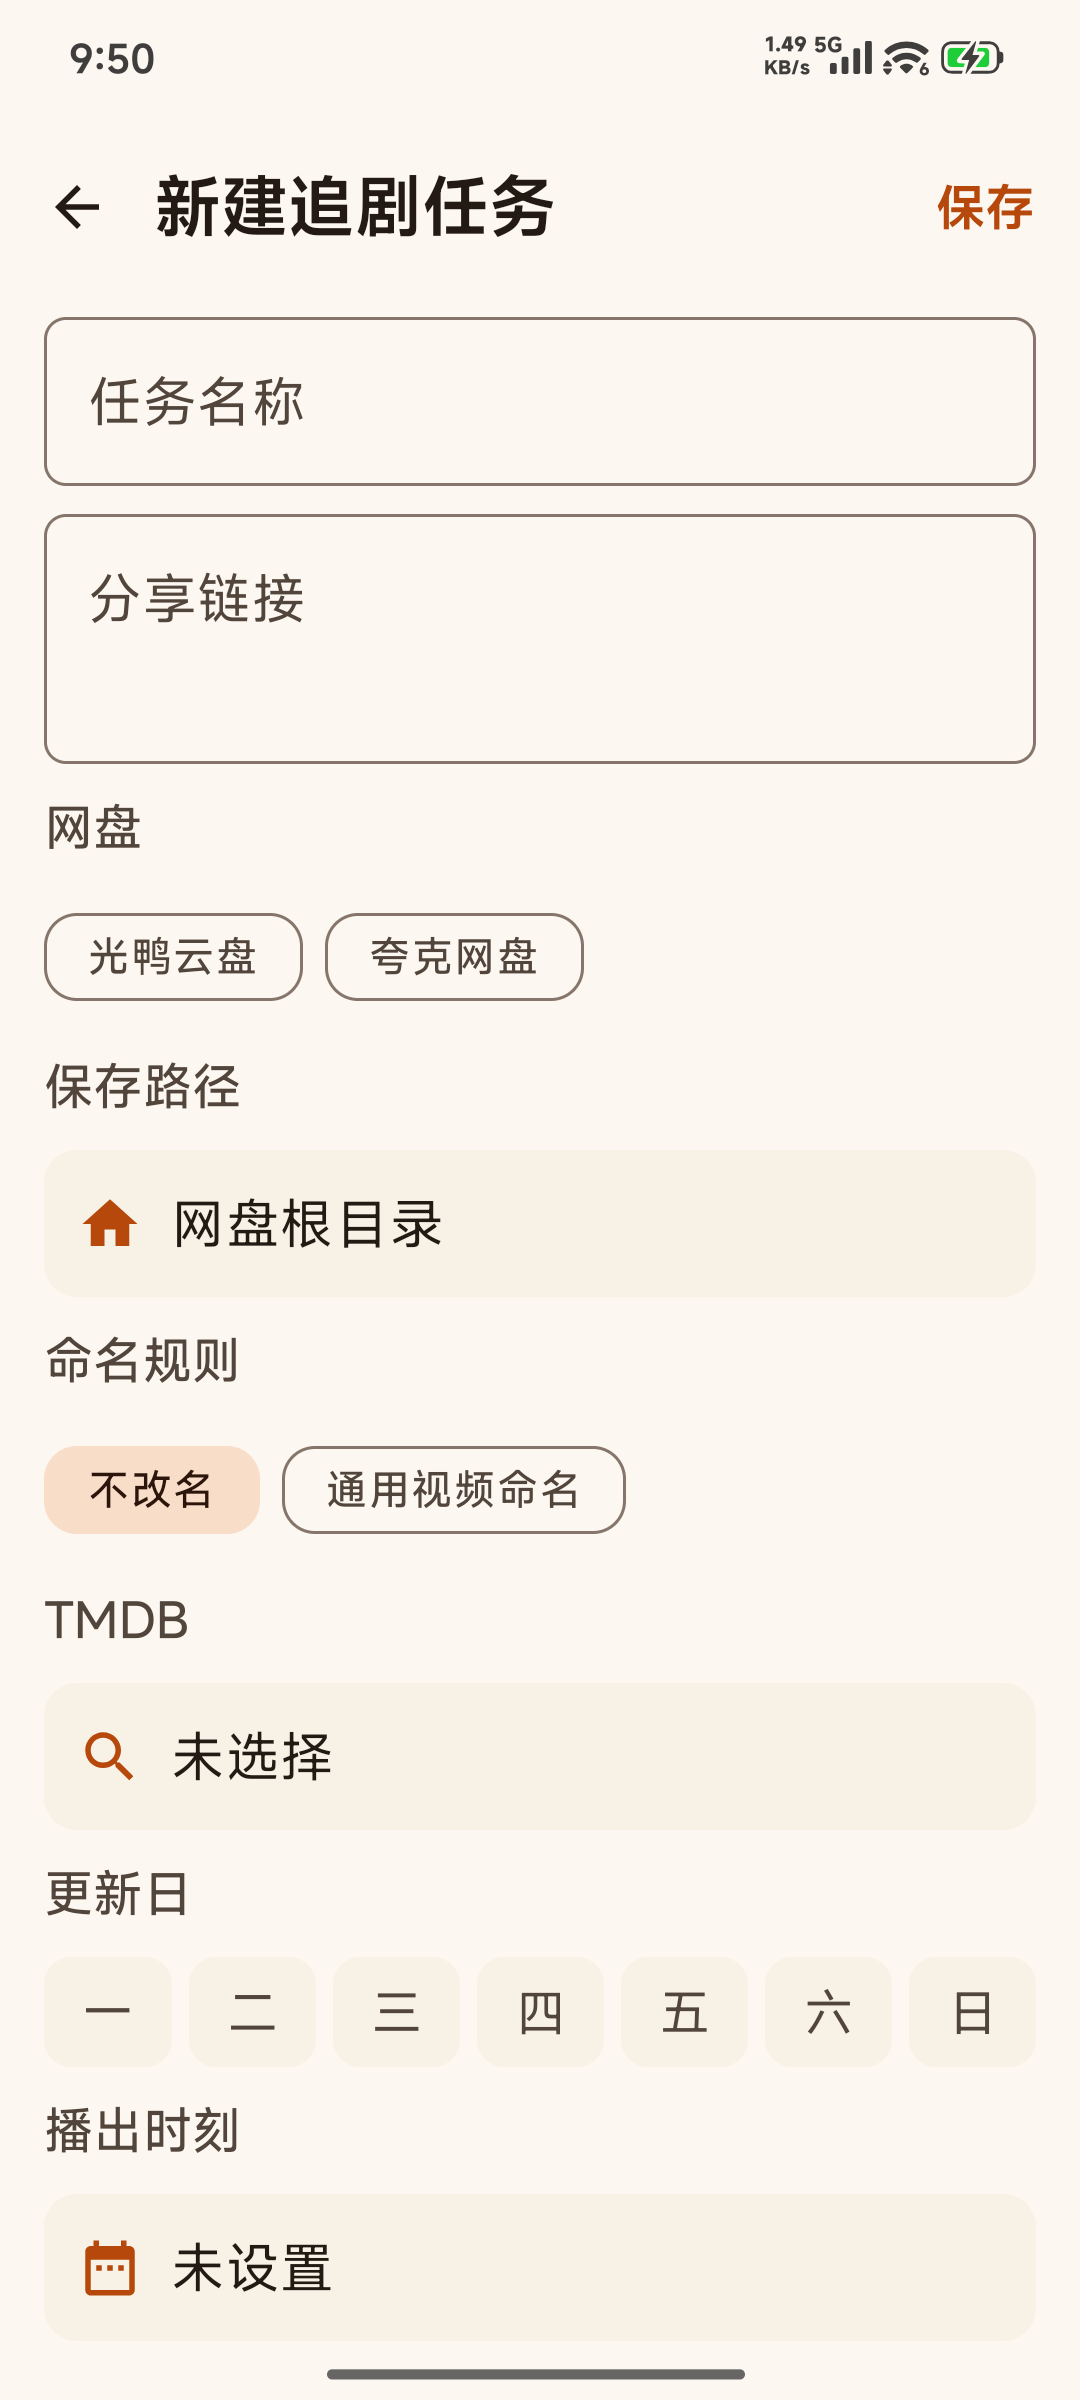
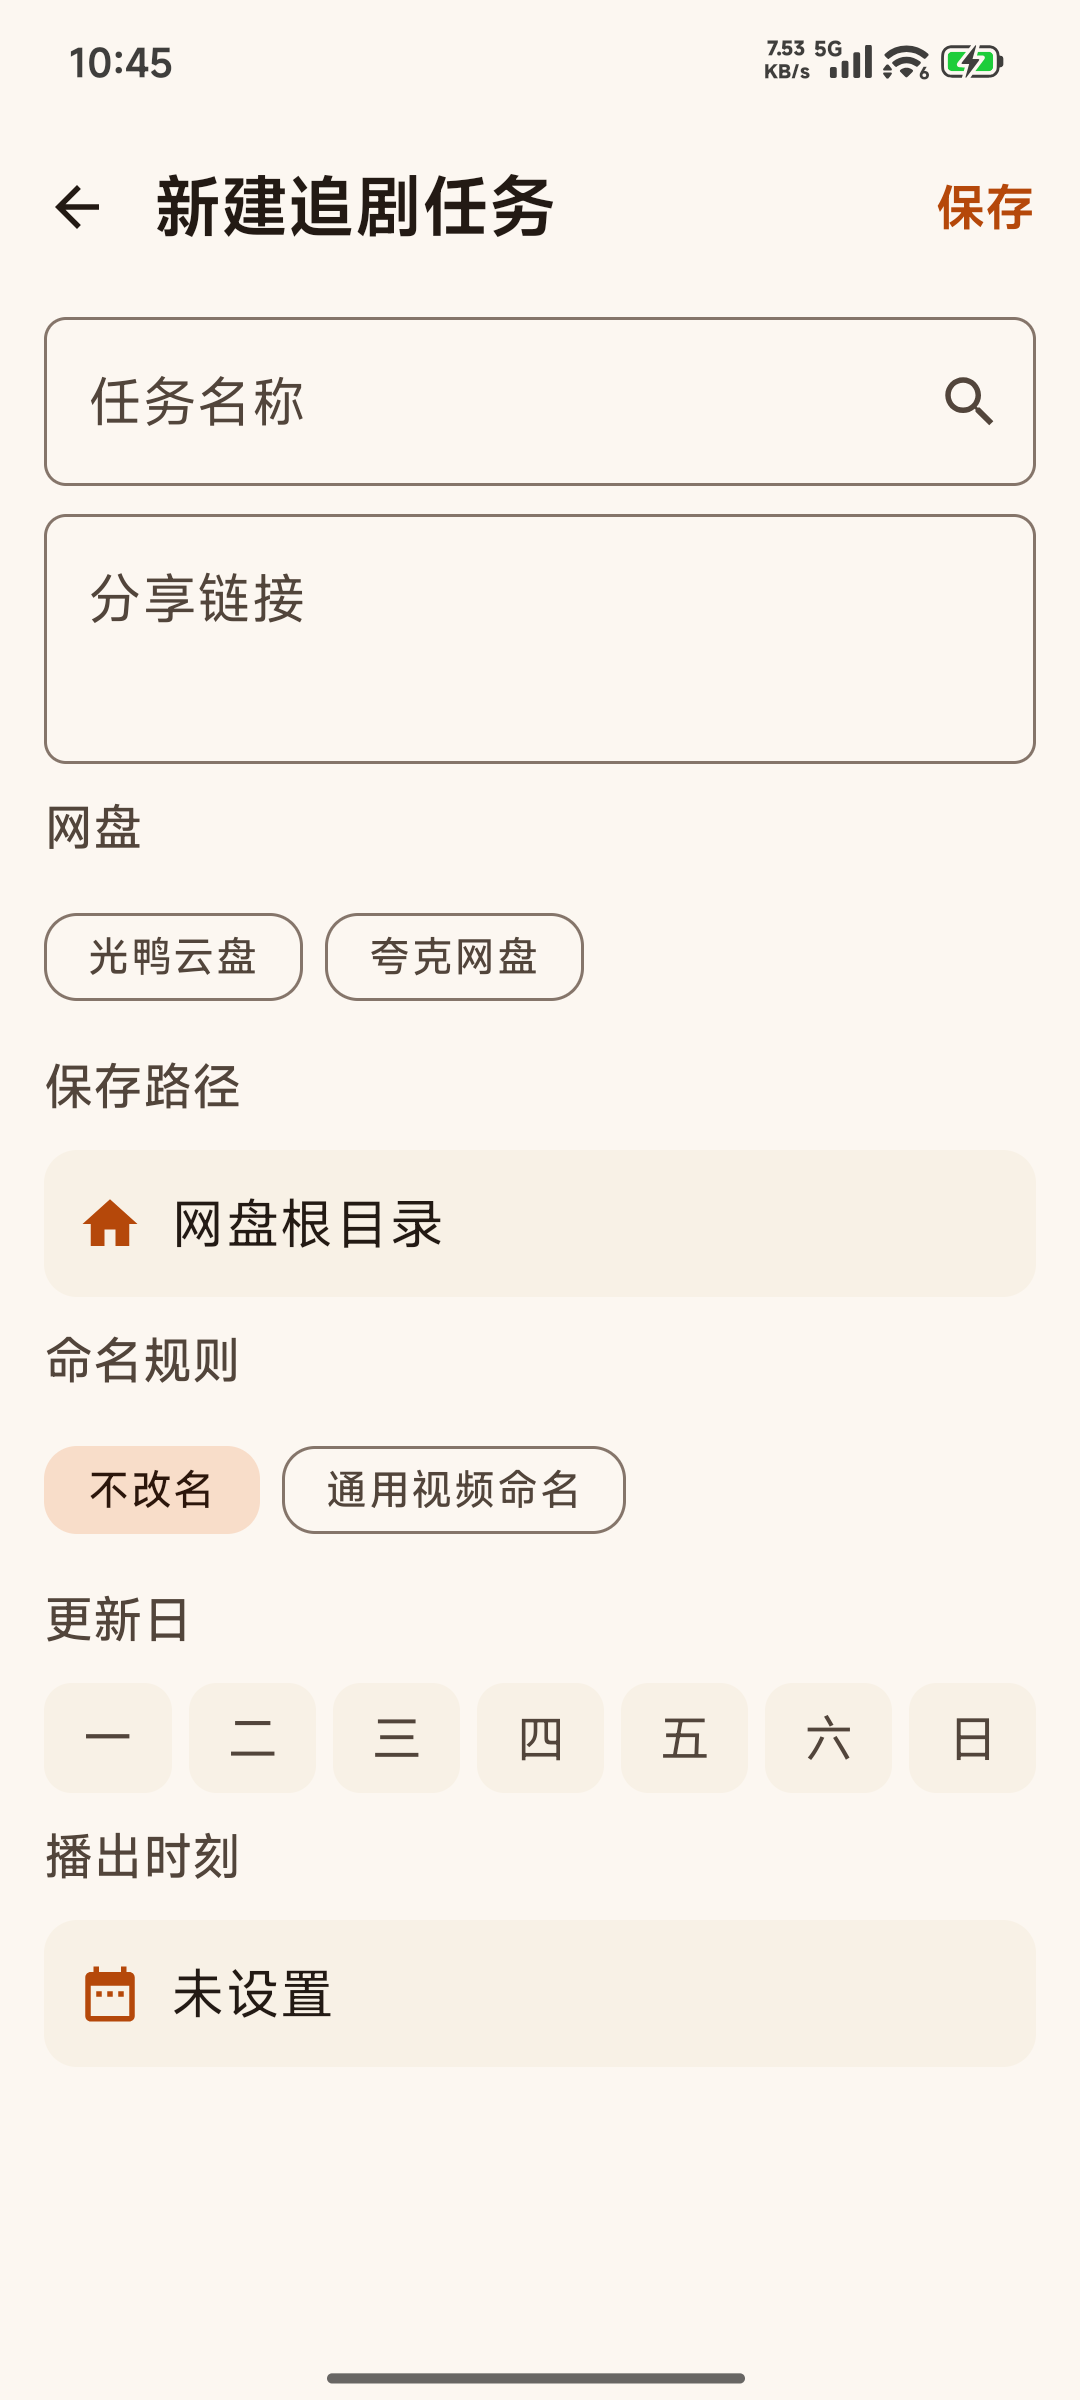
Stage 10: 修复改名后重复转存死循环 + TMDB 空字段崩溃；名称框内联搜索选剧

diff --git a/app/src/main/java/com/ashchan/cloudsaver/transfer/TreeSyncEngine.kt b/app/src/main/java/com/ashchan/cloudsaver/transfer/TreeSyncEngine.kt
@@ -202,41 +202,68 @@ class TreeSyncEngine(
             renameInside(newFid, node, depth)
         }
 
-        /** 同步一批散文件到 [destFid]：已存在的按文件名跳过，缺的才转存 */
+        /**
+         * 同步一批散文件到 [destFid]：按**改名后的目标名**判断是否已存在，缺的才转存。
+         *
+         * 这里必须用目标名而不是分享原名：上一轮已经按规则把 `01丨4K.mp4` 改名成
+         * `剧名.S01E01.mp4`，如果还拿原名比对，就会判定"全都没转过"→ 整批重下 →
+         * 再改名时撞上已有文件（光鸭直接返回 `code:160 文件名已存在`），
+         * 表现为同步一直在转圈、目录条目越滚越多。
+         */
         private suspend fun syncFiles(files: List<ShareNode>, destFid: String) {
-            val names = destList(destFid).filter { !it.isDir }.map { it.name }.toMutableSet()
+            val existing = destList(destFid).filter { !it.isDir }.map { it.name }.toMutableSet()
             files.sortedWith(NATURAL).forEach { node ->
-                if (!names.add(node.name)) {
+                val expected = expectedName(node)
+                if (expected in existing) {
                     skippedFiles++
                     return@forEach
                 }
-                syncFile(node, destFid)
+                // 本地已有原名文件但还没改名 → 就地改名，不重复转存
+                if (node.name in existing) {
+                    val fid = destList(destFid).firstOrNull { !it.isDir && it.name == node.name }?.fid
+                    if (fid != null && expected != node.name &&
+                        adapter.renameFile(fid, expected).isSuccess
+                    ) {
+                        renamedItems++
+                        existing += expected
+                        existing -= node.name
+                        destCache.remove(destFid)
+                    } else {
+                        skippedFiles++
+                    }
+                    return@forEach
+                }
+                if (syncFile(node, destFid, expected)) existing += expected
             }
         }
 
-        /** 转存单个文件并改名为计划名 */
-        private suspend fun syncFile(node: ShareNode, destFid: String) {
+        /** 分享文件按命名规则应有的最终文件名（没配规则就是原名） */
+        private fun expectedName(node: ShareNode): String =
+            renamePlan[node.fid]?.trim()?.takeIf { it.isNotBlank() } ?: node.name
+
+        /** 转存单个文件并按计划改名；成功返回 true（调用方据此更新已存在集合） */
+        private suspend fun syncFile(node: ShareNode, destFid: String, expected: String): Boolean {
             val saved = adapter.restoreShare(share, listOf(node.file), destFid)
                 .getOrElse {
                     failures += "转存「${node.name}」失败：${it.message ?: "未知错误"}"
-                    return
+                    return false
                 }
             val newFile = saved.firstOrNull()?.file
             if (newFile == null) {
                 failures += "「${node.name}」转存后未定位到新文件"
-                return
+                return false
             }
             restoredFiles++
             destCache.remove(destFid)
 
-            val newName = renamePlan[node.fid]?.trim()?.takeIf { it.isNotBlank() } ?: return
-            if (newName == node.name) return
-            if (adapter.renameFile(newFile.fid, newName).isSuccess) {
+            if (expected == node.name) return true
+            if (adapter.renameFile(newFile.fid, expected).isSuccess) {
                 renamedItems++
                 destCache.remove(destFid)
-            } else {
-                failures += "改名失败：${node.name} -> $newName"
+                return true
             }
+            failures += "改名失败：${node.name} -> $expected"
+            return true
         }
 
         /**

diff --git a/app/src/main/java/com/ashchan/cloudsaver/ui/tasks/NewTaskScreen.kt b/app/src/main/java/com/ashchan/cloudsaver/ui/tasks/NewTaskScreen.kt
@@ -163,6 +163,7 @@ fun NewTaskScreen(
                 .padding(horizontal = 16.dp, vertical = 8.dp),
             verticalArrangement = Arrangement.spacedBy(10.dp),
         ) {
+            // 任务名称：右侧直接搜 TMDB（按当前输入的名字去搜，选中就绑上）
             OutlinedTextField(
                 value = name,
                 onValueChange = {
@@ -171,8 +172,32 @@ fun NewTaskScreen(
                 },
                 placeholder = { Text("任务名称") },
                 singleLine = true,
+                trailingIcon = {
+                    IconButton(
+                        onClick = {
+                            if (viewModel.hasTmdb()) showTmdbSearch = true else showTmdbHint = true
+                        },
+                    ) {
+                        Icon(Icons.Default.Search, contentDescription = "搜索剧集")
+                    }
+                },
                 modifier = Modifier.fillMaxWidth(),
             )
+            if (tmdbId.isNotBlank()) {
+                Row(verticalAlignment = Alignment.CenterVertically) {
+                    Text(
+                        text = "已绑定：${tmdbTitle.ifBlank { tmdbId }}",
+                        style = MaterialTheme.typography.bodySmall,
+                        color = MaterialTheme.colorScheme.primary,
+                        maxLines = 1,
+                    )
+                    Spacer(Modifier.weight(1f))
+                    TextButton(onClick = {
+                        tmdbId = ""
+                        tmdbTitle = ""
+                    }) { Text("取消绑定") }
+                }
+            }
 
             OutlinedTextField(
                 value = link,
@@ -231,16 +256,6 @@ fun NewTaskScreen(
                     )
                 }
             }
-
-            // TMDB
-            SectionLabel("TMDB")
-            SettingRow(
-                icon = { Icon(Icons.Default.Search, null, tint = MaterialTheme.colorScheme.primary) },
-                title = tmdbTitle.ifBlank { "未选择" },
-                onClick = {
-                    if (viewModel.hasTmdb()) showTmdbSearch = true else showTmdbHint = true
-                },
-            )
 
             // 更新日：七个排一排
             SectionLabel("更新日")
@@ -330,6 +345,7 @@ fun NewTaskScreen(
     if (showTmdbSearch) {
         TmdbSearchDialog(
             viewModel = viewModel,
+            initialQuery = name.trim(),
             onDismiss = { showTmdbSearch = false },
             onPick = { item ->
                 tmdbId = item.id.toString()
@@ -509,14 +525,26 @@ private fun PathPickerDialog(
 @Composable
 private fun TmdbSearchDialog(
     viewModel: TasksViewModel,
+    initialQuery: String,
     onDismiss: () -> Unit,
     onPick: (TmdbSearchItem) -> Unit,
 ) {
     val scope = rememberCoroutineScope()
-    var query by remember { mutableStateOf("") }
+    var query by remember { mutableStateOf(initialQuery) }
     var results by remember { mutableStateOf<List<TmdbSearchItem>?>(null) }
     var loading by remember { mutableStateOf(false) }
     var error by remember { mutableStateOf<String?>(null) }
+
+    // 带着任务名进来自动搜一次，省一次点击
+    LaunchedEffect(Unit) {
+        if (query.isNotBlank()) {
+            loading = true
+            viewModel.searchTv(query)
+                .onSuccess { results = it; error = null }
+                .onFailure { error = it.message ?: "搜索失败"; results = null }
+            loading = false
+        }
+    }
 
     AlertDialog(
         onDismissRequest = onDismiss,

diff --git a/app/src/main/java/com/ashchan/cloudsaver/transfer/TaskRunner.kt b/app/src/main/java/com/ashchan/cloudsaver/transfer/TaskRunner.kt
@@ -264,16 +264,27 @@ class TaskRunner(
      * - 任何网络/解析异常都吞掉，只当没绑定，绝不让 TMDB 挂掉整个同步
      */
     private suspend fun resolveTmdb(task: TaskEntity): TmdbLatest {
-        val tvId = task.tmdbId ?: return TmdbLatest(0, null)
+        val tvId = task.tmdbId ?: return TmdbLatest(0, null).also {
+            android.util.Log.i("TmdbResolve", "任务「${task.name}」没有 tmdbId，卡片按 UNKNOWN")
+        }
         val credential = tmdbStore?.loadCredential()?.takeIf { it.isNotBlank() }
-            ?: return TmdbLatest(0, null)
-        val info = TmdbClient(credential, tmdbStore.loadBaseUrl()).fetchTv(tvId).getOrNull()
-            ?: return TmdbLatest(0, null)
+            ?: return TmdbLatest(0, null).also {
+                android.util.Log.i("TmdbResolve", "任务「${task.name}」tmdbId=$tvId 但读不到凭证")
+            }
+        val info = TmdbClient(credential, tmdbStore.loadBaseUrl()).fetchTv(tvId).getOrElse { e ->
+            android.util.Log.w("TmdbResolve", "fetchTv($tvId) 失败：${e.message}")
+            return TmdbLatest(0, null)
+        }
         val season = SeasonParser.parse(task.seasonName)
         return TmdbLatest(
             latestEpisode = info.latestEpisodeNumber(season),
             weekday = info.weekdayHint(),
-        )
+        ).also {
+            android.util.Log.i(
+                "TmdbResolve",
+                "tv=$tvId season=$season latest=${it.latestEpisode} weekday=${it.weekday}",
+            )
+        }
     }
 
     private fun buildAdapter(drive: DriveType, credential: String): CloudDriveAdapter =

diff --git a/app/src/main/java/com/ashchan/cloudsaver/core/tmdb/TmdbClient.kt b/app/src/main/java/com/ashchan/cloudsaver/core/tmdb/TmdbClient.kt
@@ -45,8 +45,8 @@ class TmdbClient(
         TmdbTvInfo(
             id = tvId,
             name = body.get("name")?.asString.orEmpty(),
-            lastEpisode = parseEpisode(body.getAsJsonObject("last_episode_to_air")),
-            nextEpisode = parseEpisode(body.getAsJsonObject("next_episode_to_air")),
+            lastEpisode = parseEpisode(body.obj("last_episode_to_air")),
+            nextEpisode = parseEpisode(body.obj("next_episode_to_air")),
             numberOfSeasons = body.get("number_of_seasons")?.asInt ?: 0,
         )
     }
@@ -93,6 +93,17 @@ class TmdbClient(
     }
 
     // ---------------- 内部 --------------
+
+    /**
+     * 取子对象，容忍 `null`。
+     *
+     * Gson 里字段值是 JSON `null` 时得到的是 [JsonNull]，`asJsonObject` 会直接抛
+     * `JsonNull cannot be cast to JsonObject`。剧集完结（没有下一集）时
+     * `next_episode_to_air` 就是 null，之前正是这里把整次 fetchTv 打挂，
+     * 任务卡片于是永远显示"未绑定 TMDB"。
+     */
+    private fun JsonObject.obj(key: String): JsonObject? =
+        get(key)?.takeIf { it.isJsonObject }?.asJsonObject
 
     private suspend fun get(path: String, language: String, extra: String = ""): JsonObject = kotlinx.coroutines.withContext(
         kotlinx.coroutines.Dispatchers.IO
